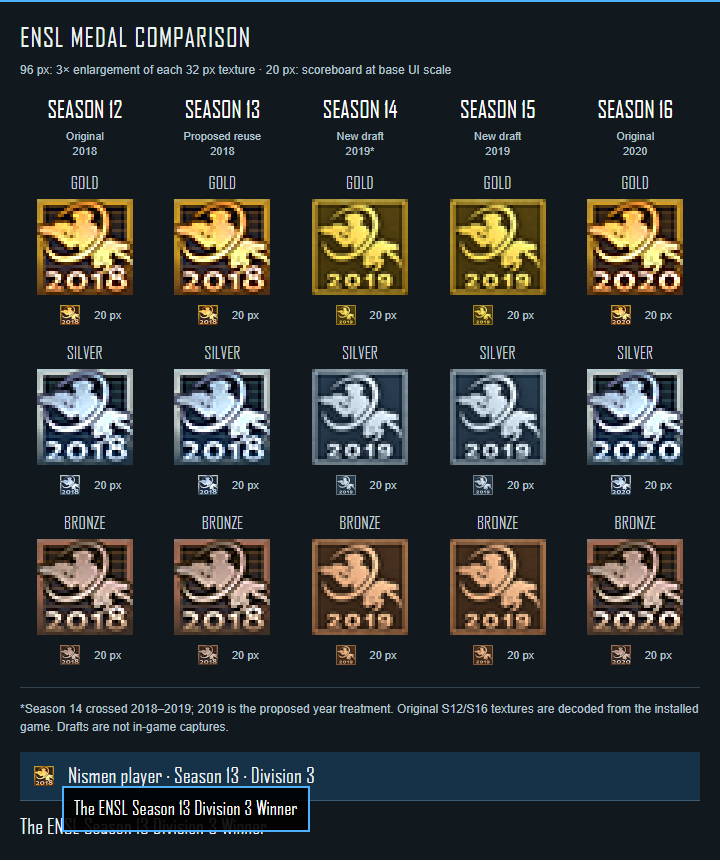
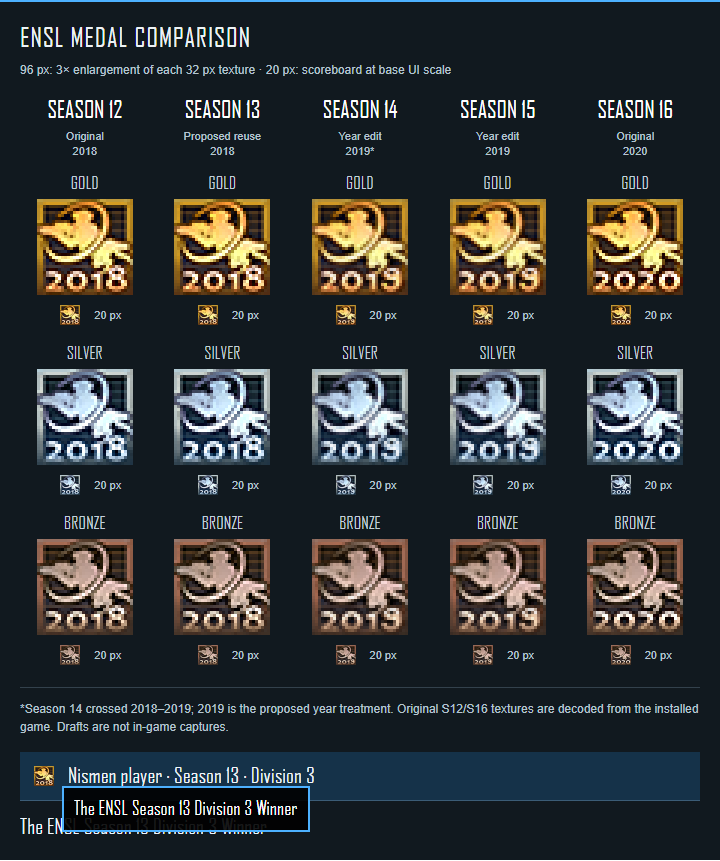
Match 2019 badges with a source-guided vanilla year edit

diff --git a/docs/year-edit-prompt.md b/docs/year-edit-prompt.md
@@ -1,0 +1,27 @@
+# Source-guided 2019 year edit
+
+Generated with the built-in ImageGen tool on 2026-09-15. This revision supersedes the recreated 2019 artwork as the current S14/S15 candidate. The Workshop cover is unaffected.
+
+## Method and result
+
+The three original 32 x 32 Season 12 PNGs, decoded from the installed DDS textures, were enlarged 16 times with nearest-neighbor sampling and arranged into a 1024 x 1024 edit input. The only requested creative change was the last digit of each date, from 2018 to 2019. No separate logo reference or redesigned artwork was supplied, to minimize visual drift.
+
+The tool returned a 1254 x 1254 image. Each 627 x 627 medal cell was cropped and exported at 32 x 32 and 20 x 20 using high-quality bicubic resampling. The comparison displays the 32 px sources at 96 px with nearest-neighbor enlargement and at 20 px with browser filtering, consistently across all seasons.
+
+Visual review confirms a much closer match to the originals in arc size, year lettering size, medal colors, and background treatment. Generative editing and resampling still modify pixels outside the final digit; this is not a bit-for-bit source-preserving edit. For exact production matching, a localized native-resolution pixel edit with all other source pixels retained would be the most reliable finishing method. No final DDS or in-game verification is implied.
+
+## Files
+
+- `docs/vanilla-2018-edit-input.png`: original source atlas supplied to ImageGen.
+- `assets/drafts/year-edit-2019-master.png`: generated output.
+- `assets/drafts/year-edit_2019_{gold,silver,bronze}_{32,20}.png`: candidate exports.
+- `docs/medal-comparison.png`: updated five-season comparison.
+
+## Exact prompt
+
+Use case: text-localization.
+Edit target: the provided 1024 x 1024 image, an exact nearest-neighbor enlargement of three original Natural Selection 2 ENSL medal textures in a 2x2 atlas. Gold at top-left, silver at top-right, bronze at bottom-left, blank dark gray at bottom-right.
+Make a surgical single-digit edit: change the final digit of "2018" to "9" in EACH of the three medals, so the year reads "2019".
+Preserve EVERYTHING ELSE in the input. Keep its exact low-resolution blocky pixel-art appearance: each badge consists of a 32x32 logical pixel grid, enlarged 16 times. Do not make this smooth, higher-detail, redesigned, illustrated, cleaner, or sharper than the original.
+The Marine/rifle, sweeping semicircular arc, and Skulk must remain identical in shape, proportions, scale, position, color and shading. The arc must stay as large as in the source. Keep every medal's original background pixel pattern, muted gold/brown, steel blue/silver, muted pink/copper bronze palette, brightness, highlights and border. Keep the original oversized YEAR LETTERING filling the bottom band: the "201" remain unchanged, and the new "9" occupies the same size and location as the old "8", with matching pixel font and color.
+Output the same exact 2x2 gapless atlas composition and crop; square 1024x1024 if possible. No margins, labels, new frames, fake checkerboards, glows, logo reinterpretation or extra text. The only intended changed pixels are in the last digit of each date. This is a source-preserving texture edit, not a new design.

diff --git a/docs/artwork.md b/docs/artwork.md
@@ -10,11 +10,11 @@ Each large image is a nearest-neighbor 96 x 96 enlargement of a 32 x 32 texture.
 | --- | --- | --- |
 | 12 | Installed `ensl_2018_{gold,silver,bronze}.dds` | Original reference |
 | 13 | Same original 2018 textures | Proposed reuse under separate custom award identifiers |
-| 14 | Corrected generated 2019 variants | Draft; 2019 year treatment proposed for the 2018–2019 season |
-| 15 | Same corrected 2019 variants | Draft |
+| 14 | Source-guided 2019 year edit | Draft; 2019 year treatment proposed for the 2018–2019 season |
+| 15 | Same 2019 year edit | Draft |
 | 16 | Installed `ensl_s16_{gold,silver,bronze}.dds` | Original reference |
 
-The S14/S15 draft has the corrected emblem and colored interiors. It still differs from the originals in brightness, frame treatment, silhouette proportions, and numeral size. Final texture work should match the shipped art more closely before release. The generated high-resolution sheet is design input, not a native pixel-art master; downsampling alone does not make it a finished game texture.
+The revised S14/S15 candidate starts from the original S12 pixels and asks ImageGen to change only the last digit to 9. This brings the arc size, year lettering, colors, and background much closer to the shipped art. It still is not pixel-identical outside the date, because generation and resizing introduce changes. See [the exact year-edit prompt and method](year-edit-prompt.md). Verify the finished native textures in-game before release.
 
 ## Emblem correction
 
@@ -28,14 +28,16 @@ Season 12 divisions share three textures but have separate award identifiers and
 
 ## Files
 
-- `assets/drafts/2019-medals-master.png`: corrected generated design sheet.
-- `assets/drafts/corrected_2019_*_32.png`: 32 x 32 design drafts.
-- `assets/drafts/corrected_2019_*_20.png`: independent 20 x 20 exports for inspection. The comparison uses the same 32 px source for every medal and browser scaling to 20 px.
+- `assets/drafts/year-edit-2019-master.png`: current source-guided year-edit candidate.
+- `assets/drafts/year-edit_2019_*_32.png`: 32 x 32 design drafts.
+- `assets/drafts/year-edit_2019_*_20.png`: independent 20 x 20 exports for inspection. The comparison uses the same 32 px source for every medal and browser scaling to 20 px.
 - `docs/medal-comparison.png`: all five seasons, enlarged and small.
 - `docs/nismen-hover-comparison.png`: illustrative native-style hover panel.
 - `docs/hover-behavior.md`: source audit and proposed badge names.
 
 The installed declarations reference separate scoreboard paths for some medals, but corresponding `_20.dds` files were absent from the inspected folder. Verify the actual texture paths and filtering in NS2 before claiming a working implementation. No final DDS or runtime registration is included yet.
+
+Earlier `corrected_2019_*` exports and `2019-medals-master.png` remain as superseded design drafts. The current comparison uses `year-edit_2019_*` exports.
 
 ## Workshop cover
 

diff --git a/README.md b/README.md
@@ -11,10 +11,11 @@ A Natural Selection 2 mod project restoring tournament badges for NSL Seasons 13
 - [Accepted implementation plan](PLAN.md)
 - [Existing badge artwork and proposed direction](docs/artwork.md)
 - [Hover panels and proposed badge names](docs/hover-behavior.md)
-- [Corrected artwork prompts](docs/artwork-correction-prompts.md)
+- [Current year-edit prompt and method](docs/year-edit-prompt.md)
+- [Earlier artwork correction prompts](docs/artwork-correction-prompts.md)
 - [Historical preview prompts](docs/preview-prompt.md)
 
-The cover is available as 512 x 512 PNG and JPEG. [Compare S12, proposed S13–15, and S16 medals](docs/medal-comparison.png) enlarged and at the scoreboard base size. S13 proposes reuse of original 2018 art; S14/S15 use corrected 2019 drafts. Final game textures and registration remain to be completed.
+The cover is available as 512 x 512 PNG and JPEG. [Compare S12, proposed S13–15, and S16 medals](docs/medal-comparison.png) enlarged and at the scoreboard base size. S13 proposes reuse of original 2018 art; S14/S15 use source-guided 2019 year-edit candidates. Final game textures and registration remain to be completed.
 
 ## Award policy
 
